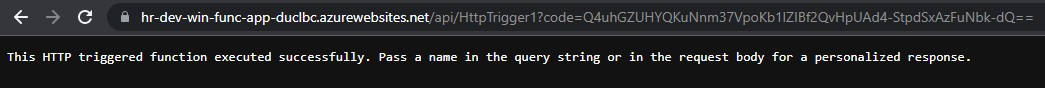
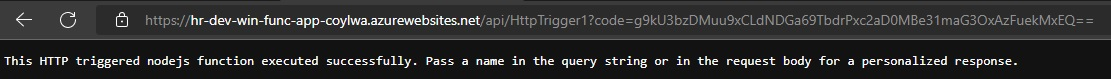
Added files

diff --git a/src/js-apps/js-azure-func-app/HttpTrigger1/index.js b/src/js-apps/js-azure-func-app/HttpTrigger1/index.js
@@ -3,8 +3,8 @@ module.exports = async function (context, req) {
 
     const name = (req.query.name || (req.body && req.body.name));
     const responseMessage = name
-        ? "Hello, " + name + ". This HTTP triggered function executed successfully."
-        : "This HTTP triggered function executed successfully. Pass a name in the query string or in the request body for a personalized response.";
+        ? "Hello, " + name + ". This HTTP triggered nodejs function executed successfully."
+        : "This HTTP triggered nodejs function executed successfully. Pass a name in the query string or in the request body for a personalized response.";
 
     context.res = {
         // status: 200, /* Defaults to 200 */
